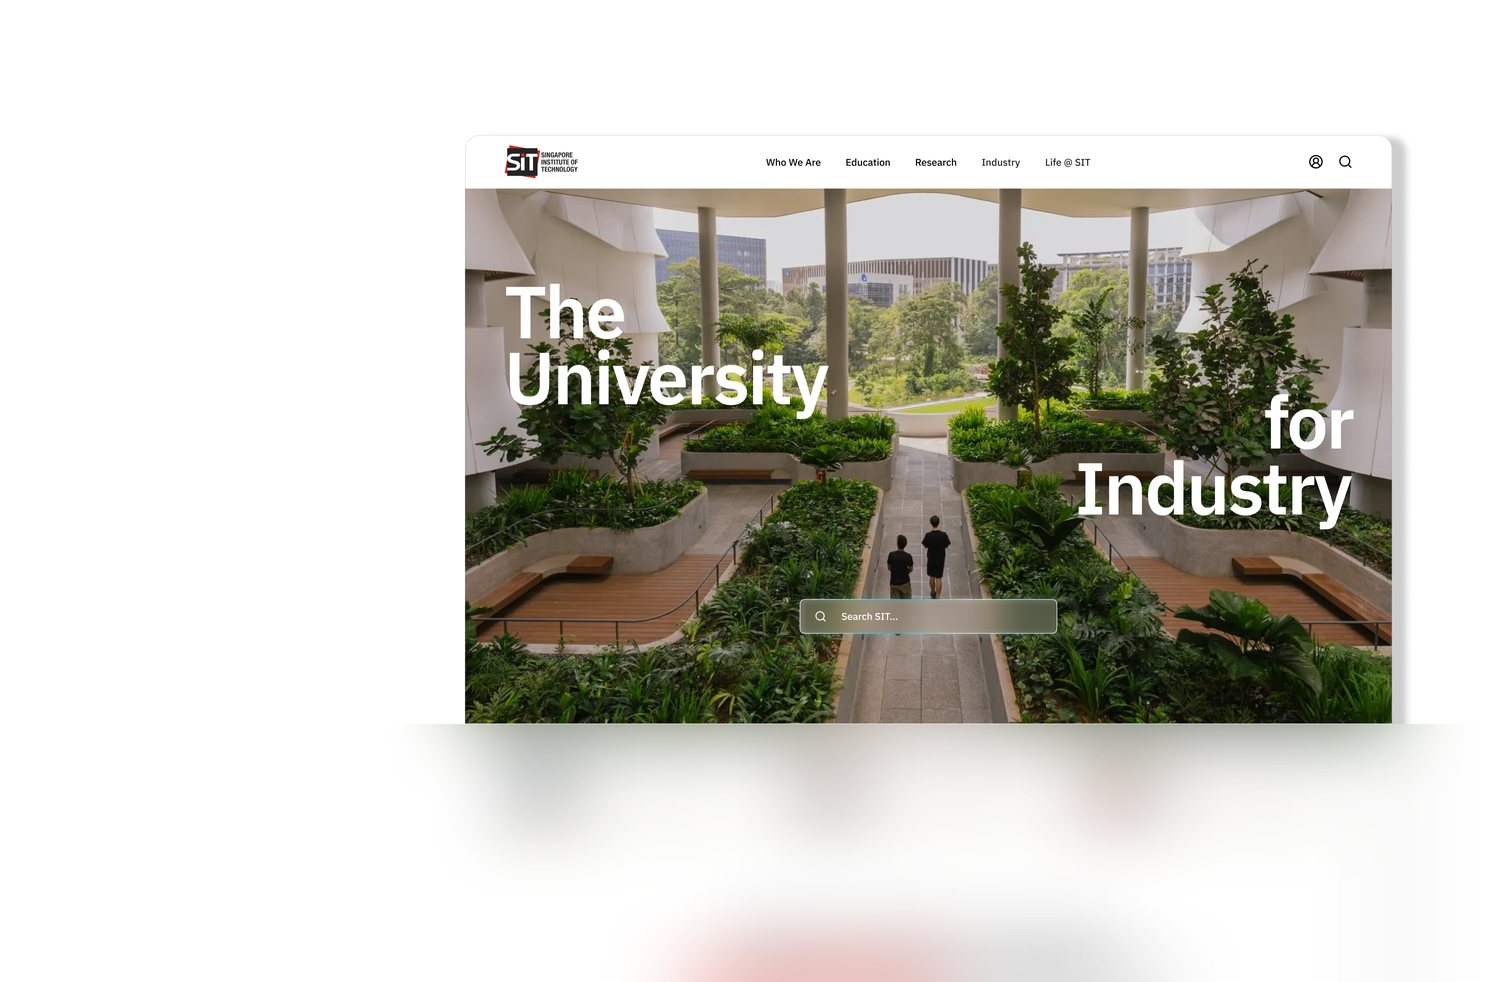
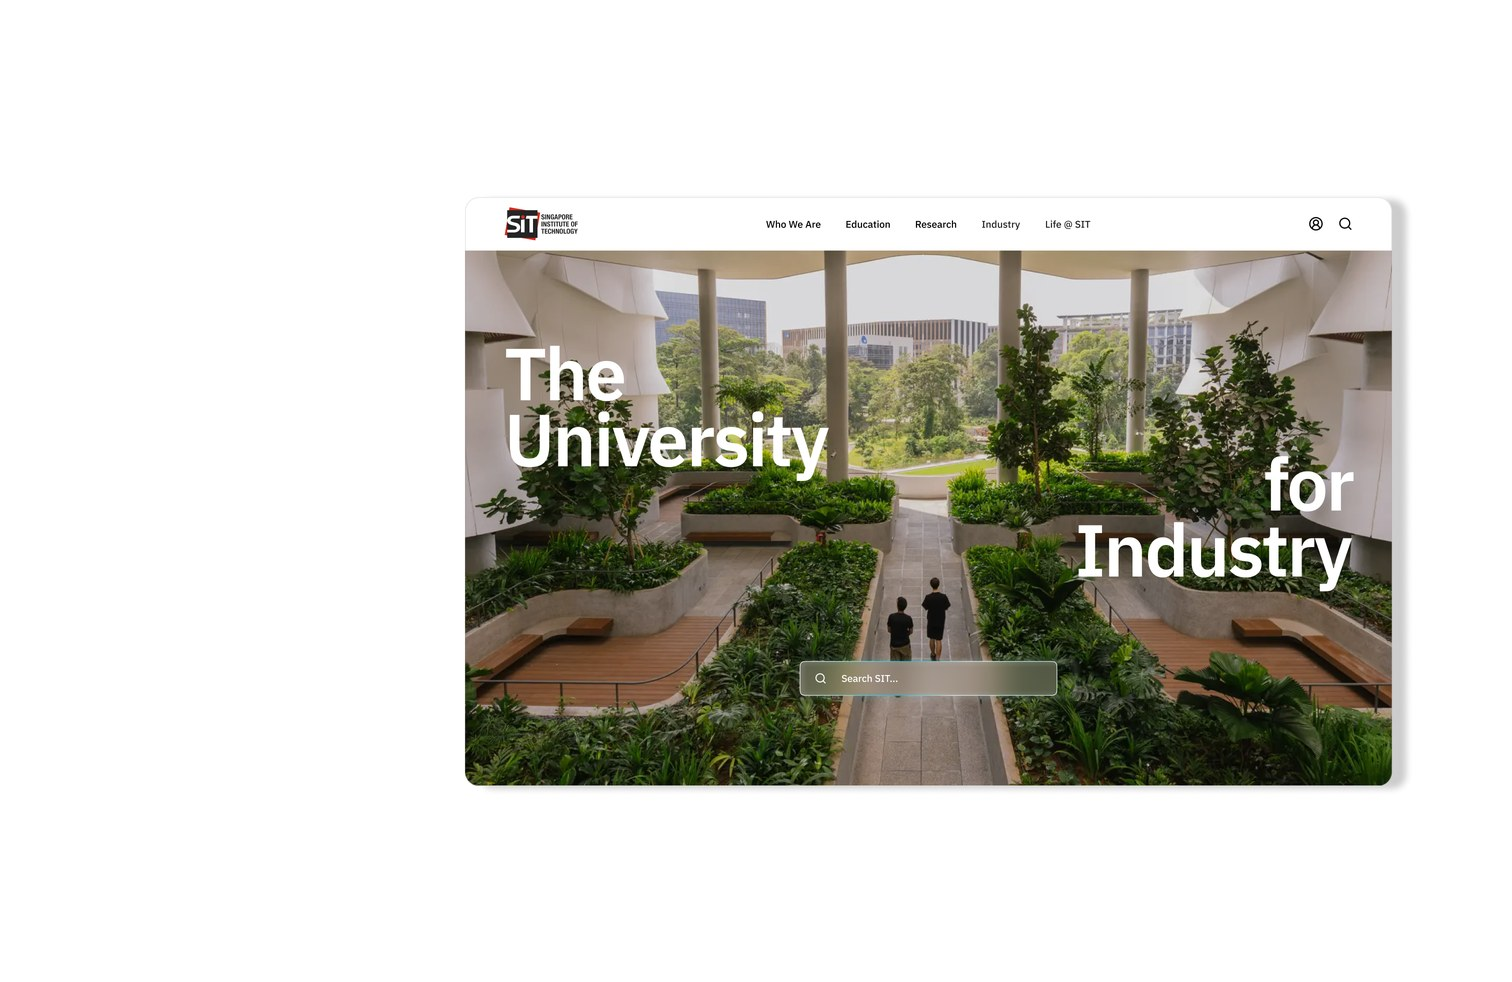
Update SIT card art, homepage footer and contact panel
- Work: new SIT desktop thumbnail from Figma (Case Study 3)
- Homepage: "| Senior Graphic Designer" in grey; mobile footer stacked,
  21px from bottom; mobile name spacing per Figma Homepage – Mobile
- Contact panel: eyebrow removed, 56px top padding (desktop + mobile)

Claude-Session: https://claude.ai/code/session_01QQT3WnXFT7LTAznki899kZ

diff --git a/assets/css/style.css b/assets/css/style.css
@@ -93,6 +93,7 @@ body.home-page { height: 100vh; height: 100dvh; overflow: hidden; }
   letter-spacing: var(--track);
   text-transform: uppercase;
 }
+.hero__foot .muted { color: var(--grey); }
 
 /* ---------- Work page intro ---------- */
 .intro { height: calc(341 * var(--u)); min-height: 220px; position: relative; }
@@ -162,7 +163,7 @@ body.home-page { height: 100vh; height: 100dvh; overflow: hidden; }
 .contact__box {
   position: relative; width: min(560px, 100%);
   background: var(--white); border: 1px solid #e6e6e6;
-  padding: 48px; box-shadow: 0 30px 80px rgba(0,0,0,.08);
+  padding: 56px 48px 48px; box-shadow: 0 30px 80px rgba(0,0,0,.08);
   opacity: 0; transform: translateY(12px); transition: opacity .25s ease, transform .25s ease;
 }
 .contact.is-open .contact__scrim { opacity: 1; }
@@ -173,7 +174,7 @@ body.home-page { height: 100vh; height: 100dvh; overflow: hidden; }
 }
 .contact__close:hover { color: var(--black); }
 .contact__eyebrow { font: 600 12px/1 var(--sans); letter-spacing: var(--track); text-transform: uppercase; color: var(--grey); }
-.contact__title { margin-top: 20px; font: 400 clamp(40px, 6vw, 60px)/0.95 var(--serif); letter-spacing: -0.02em; text-transform: uppercase; }
+.contact__title { font: 400 clamp(40px, 6vw, 60px)/0.95 var(--serif); letter-spacing: -0.02em; text-transform: uppercase; }
 .contact__email { margin-top: 28px; font: 400 18px/1.4 var(--sans); user-select: all; word-break: break-all; }
 .contact__actions { margin-top: 28px; display: flex; flex-wrap: wrap; gap: 12px; }
 .contact__btn {
@@ -196,14 +197,17 @@ body.home-page { height: 100vh; height: 100dvh; overflow: hidden; }
 
   .hero { height: 100svh; min-height: 560px; }
   .hero__name {
-    position: absolute; left: 20px; right: 20px; width: auto; height: auto; transform: translateY(-50%);
+    /* Figma "Homepage – Mobile": lines 54.28px apart at 58.5px, block top 98.28px above centre */
+    position: absolute; left: 20px; right: 20px; width: auto; height: auto; transform: translateY(-1.68em);
     font-size: clamp(48px, 15vw, 92px); line-height: 1.12;
     display: flex; flex-direction: column;
   }
   .hero__name span { position: static; }
-  .hero__name span:nth-child(2) { padding-left: 14%; }
-  .hero__name span:nth-child(3) { padding-left: 30%; }
-  .hero__foot { bottom: 40px; padding: 0 20px; font-size: 10px; gap: 16px; }
+  .hero__name span + span { margin-top: -0.1921em; }
+  .hero__name span:nth-child(1) { padding-left: 6%; }
+  .hero__name span:nth-child(2) { padding-left: 20%; }
+  .hero__name span:nth-child(3) { padding-left: 36%; }
+  .hero__foot { bottom: 21px; padding: 0 20px; font-size: 10px; flex-direction: column; gap: 4px; }
 
   /* 4-col grid: 20px margins, 16px gutters; intro text starts on column 2 */
   .intro { height: auto; min-height: 0; padding: 32px 20px 48px calc(20px + (100% - 88px) / 4 + 16px); }
@@ -230,7 +234,7 @@ body.home-page { height: 100vh; height: 100dvh; overflow: hidden; }
   .case--diag .case__desc { color: var(--white); }
   .case__cta { opacity: 1; transform: none; }
 
-  .contact__box { padding: 40px 24px 32px; }
+  .contact__box { padding: 56px 24px 32px; }
   .footer { padding: 40px 20px; font-size: 11px; flex-direction: column; align-items: flex-start; gap: 12px; }
 }
 

diff --git a/assets/js/contact.js b/assets/js/contact.js
@@ -8,7 +8,6 @@
     <div class="contact__scrim" data-close></div>
     <div class="contact__box" role="dialog" aria-modal="true" aria-labelledby="contact-title">
       <button class="contact__close" type="button" data-close aria-label="Close">Close ✕</button>
-      <p class="contact__eyebrow">Contact</p>
       <h2 class="contact__title" id="contact-title">Let’s work<br>together</h2>
       <p class="contact__email" id="contact-email">${EMAIL}</p>
       <div class="contact__actions">

diff --git a/index.html b/index.html
@@ -25,7 +25,7 @@
       <span>Cher</span>
     </h1>
     <div class="hero__foot">
-      <p>UI/UX Designer | Senior Graphic Designer</p>
+      <p>UI/UX Designer<span class="muted"> | Senior Graphic Designer</span></p>
       <p>@2026</p>
     </div>
   </main>
